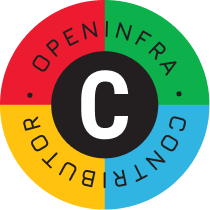
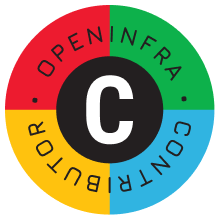
Adjust badge features to attempt fix trimming.

diff --git a/src/badge_templates/berlin-2022/shared/styles/styles_1.less b/src/badge_templates/berlin-2022/shared/styles/styles_1.less
@@ -81,13 +81,13 @@
 .features {
 		position: absolute;
 		width: 100%;
-		top: 421px;
-		padding: 0 11px;
+		top: 420px;
+		padding: 0 10px;
 		display: flex;
 		img {
-			height: 72px !important;
-			width: 72px;
-			margin-left: 10px;
+			height: 75px !important;
+			width: 75px;
+			margin-left: 8px;
 			&:nth-of-type(1) {
 				margin-left: 0px;
 			}
